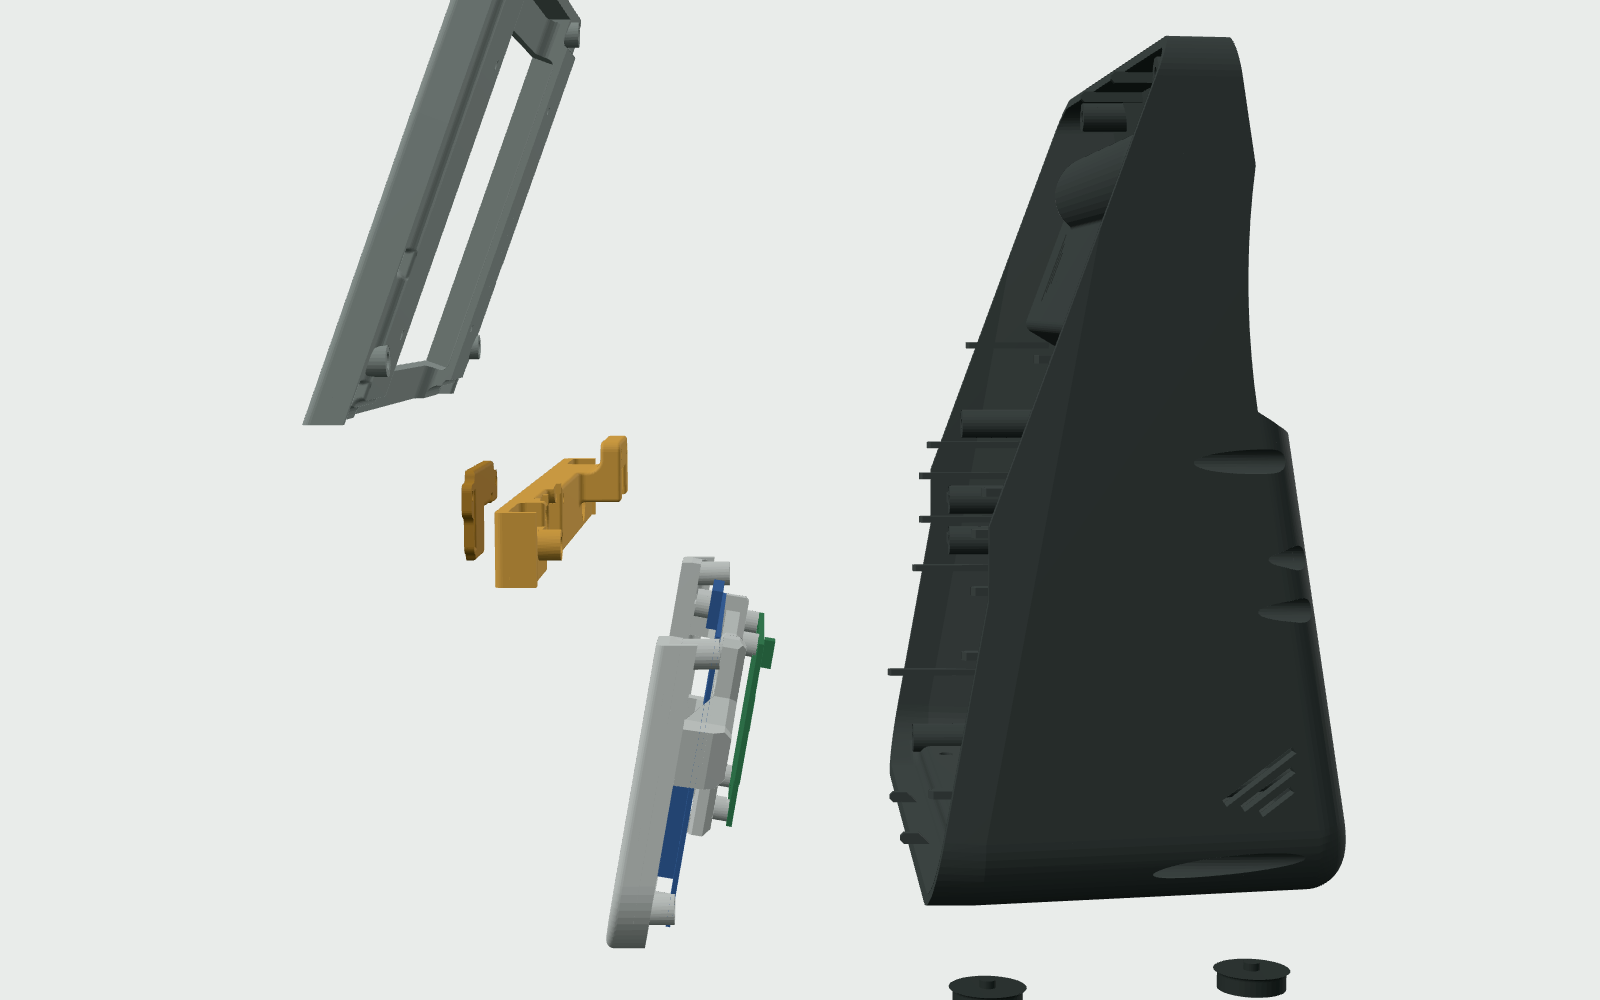
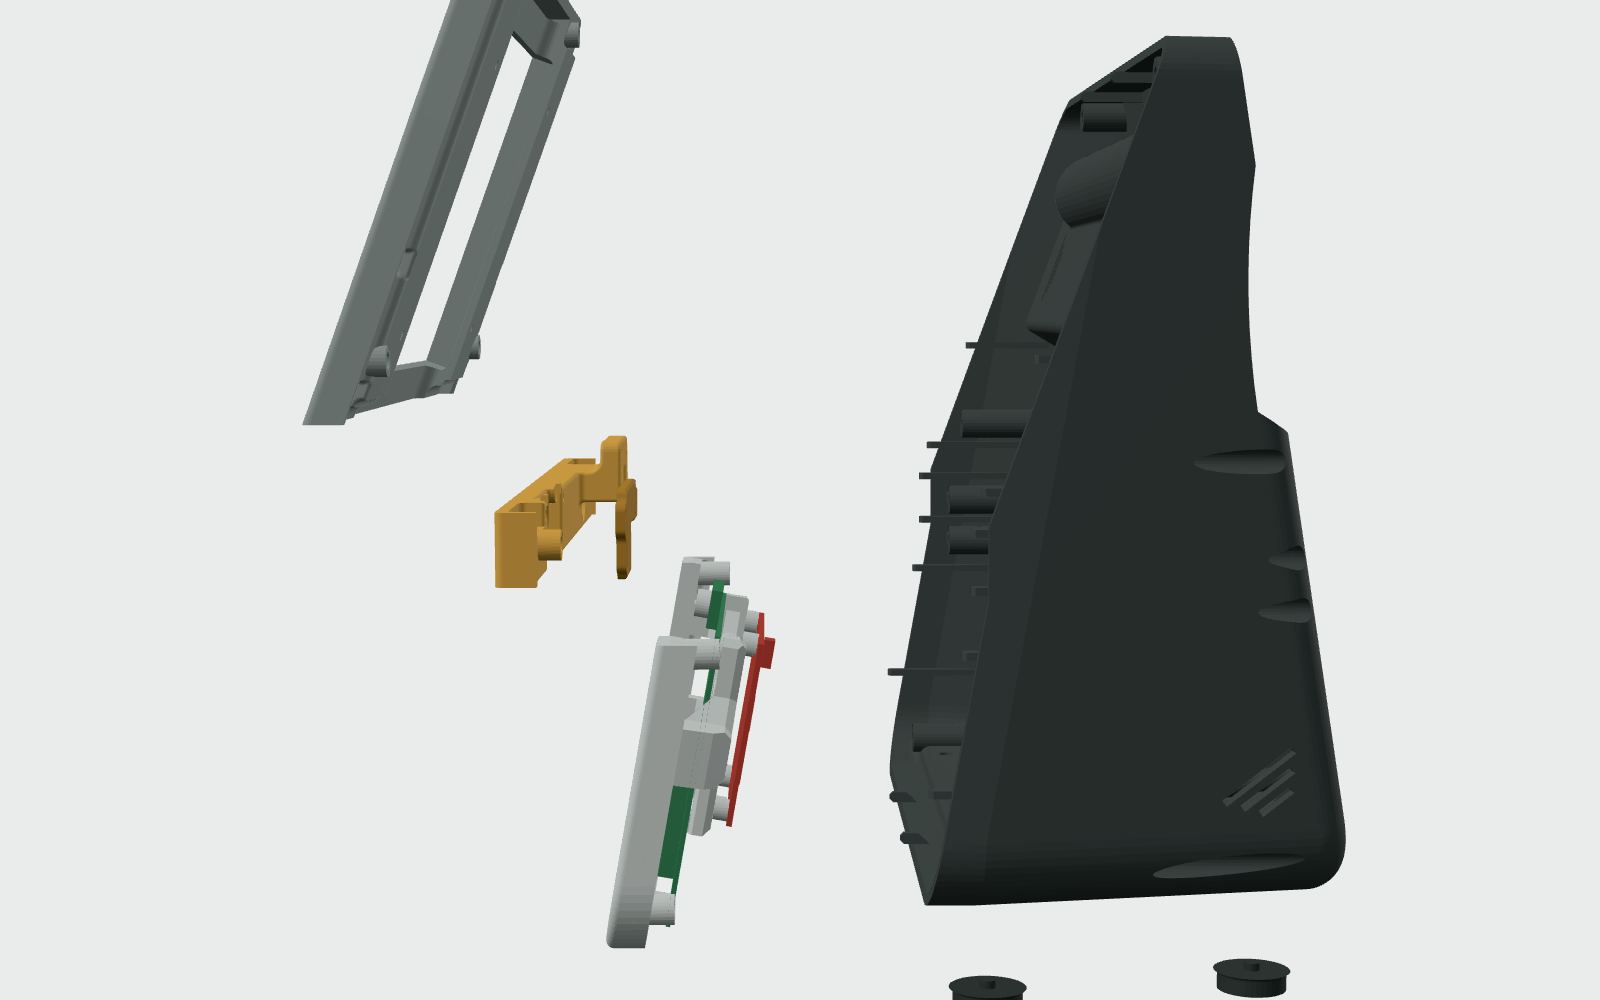
docs: sound detector mounts behind the front bar; re-render with IWR red, OPS green
The retainer was drawn in front of the camera strip in the exploded views; it closes the pocket from behind. Adds a view of the camera strip from behind.

Changed region(s): [[0.4062, 0.589, 0.5, 0.899], [0.375, 0.465, 0.4062, 0.589], [0.2812, 0.465, 0.3125, 0.558]]

diff --git a/docs/parts/camera.md b/docs/parts/camera.md
@@ -12,8 +12,8 @@ The strip is relieved behind the middle so **UART and USB OPS** both fit on the 
 
 | File | Role |
 | --- | --- |
-| [`Front-Camera-Sound-Detector.stl`](../../stls/camera/v1/Front-Camera-Sound-Detector.stl) | Camera strip with sound-detector pocket, camera in line with the IWR |
-| [`Sound-Detector-Retainer.stl`](../../stls/camera/v1/Sound-Detector-Retainer.stl) | Holds the sound board in the pocket |
+| [`Front-Camera-Sound-Detector.stl`](../../stls/camera/v1/Front-Camera-Sound-Detector.stl) | Camera strip with a sound-detector pocket on its back side, camera in line with the IWR |
+| [`Sound-Detector-Retainer.stl`](../../stls/camera/v1/Sound-Detector-Retainer.stl) | Holds the sound board in the pocket, from behind the strip |
 
 The previous sound-detector strip (camera not in line with the IWR) and the camera-only front (`Front-Camera.stl`) are **EOL** — see [`stls/camera/eol/`](../../stls/camera/eol/README.md). The retainer is unchanged and fits both strips.
 
@@ -27,7 +27,7 @@ Camera module in the CAD: Innomaker OV9281. Full table: [Required hardware](../h
 | 2× M2 | OV9281 |
 | 2× M2 | Sound-detector retainer |
 
-Seat the sound board in the pocket, then screw the retainer over it into the two extra M2 inserts.
+The sound board mounts **behind the front bar**, not on its face: seat it from the back in the pocket on the rear side of the strip, then screw the retainer over it from behind into the two extra M2 inserts.
 
 ## Print notes
 

diff --git a/docs/assembly.md b/docs/assembly.md
@@ -35,7 +35,7 @@ Do this on the bench, not in the closed case.
 | Battery board / Pi (and x1202 or x1209 adapter if required) | [Shell](parts/shell.md) |
 | Adafruit modules | Shell (three floor bays; optional extra pair on the side wall) |
 | OPS and IWR | [Radar front](parts/radar.md) — current no-fill front can be flashed after mounting |
-| Camera (Innomaker OV9281) and sound detector | [Camera front](parts/camera.md) — sound board in the pocket, then the printed retainer |
+| Camera (Innomaker OV9281) and sound detector | [Camera front](parts/camera.md) — sound board in the pocket on the back of the strip (behind the front bar), then the printed retainer from behind |
 | Display | [Screen bezel](parts/screen.md) (1024×600 uses the extra 4 inserts) |
 
 **X1209 battery board:** x12-a1 shell plus the x1209 adapter. Do not use that shell without the adapter.
